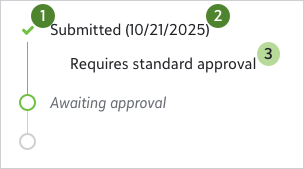
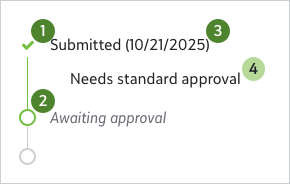
Updates to passive progress indicator

Changed region(s): [[0.0621, 0.0, 0.8069, 0.9172], [0.2172, 0.2367, 0.931, 0.4734]]

diff --git a/src/app/components/progress-indicator/passive-progress-indicator/index.html b/src/app/components/progress-indicator/passive-progress-indicator/index.html
@@ -35,7 +35,7 @@
         <h3 class="sky-text-danger">Don't use when</h3>
         <sky-docs-visual-example>
           <sky-docs-visual-example-text>
-            <p>Don't use passive progress indicators for tasks that require user interaction.</p>
+            <p>Don't use passive progress indicators for tasks that require user interaction. Use <a routerLink="/components/progress-indicator/waterfall-progress-indicator">waterfall pages</a> or <a routerLink="/components/wizad">wizards</a> instead.</p>
           </sky-docs-visual-example-text>
           <sky-docs-visual-example-image>
             <div>
@@ -76,9 +76,10 @@
     
       <sky-demo-page-content sectionHeading="Anatomy">
         <sky-docs-anatomy imagePath="~/assets/img/guidelines/progress-indicator/passive-progress-anatomy.png">
-          <sky-docs-anatomy-item anatomyNumber="1">Step indicator</sky-docs-anatomy-item>
-          <sky-docs-anatomy-item anatomyNumber="2">Step label</sky-docs-anatomy-item>
-          <sky-docs-anatomy-item isOptional="true" anatomyNumber="3">Step details</sky-docs-anatomy-item>
+          <sky-docs-anatomy-item anatomyNumber="1">Completed step indicator</sky-docs-anatomy-item>
+          <sky-docs-anatomy-item anatomyNumber="2">Pending step indicator</sky-docs-anatomy-item>
+            <sky-docs-anatomy-item anatomyNumber="3">Step label</sky-docs-anatomy-item>
+          <sky-docs-anatomy-item isOptional="true" anatomyNumber="4">Step details</sky-docs-anatomy-item>
         </sky-docs-anatomy>
       </sky-demo-page-content>
     
@@ -91,7 +92,7 @@
     
       <sky-demo-page-content sectionHeading="Content">
         <div class="sky-text-block">
-          <p>Be concise in step labels. For completed steps, use past tense verbs ("Submitted," "Approved") and include datestamps in parentheses in most cases. Only include timestamps if necessary.</p>
+          <p>Be concise in step labels. For completed steps, use past tense verbs ("Submitted," "Approved") and include datestamps in parentheses. Only include timestamps if the extra detail is necessary. For pending steps, use present tense verbs or gerunds ("Submitting", "Awaiting").</p>
           <p>Use step details sparingly, and be concise.</p>
         </div>
       </sky-demo-page-content>
@@ -108,6 +109,8 @@
         <ul>
           <li><a routerLink="/components/flyout">Flyout</a></li>
           <li><a routerLink="/components/popover">Popover</a></li>
+            <li><a routerLink="/components/progress-indicator/waterfall-progress-indicator">Waterfall page</a></li>
+            <li><a routerLink="/components/wizard">Wizard</a></li>
         </ul>
         <h3>Guidelines</h3>
         <ul>
